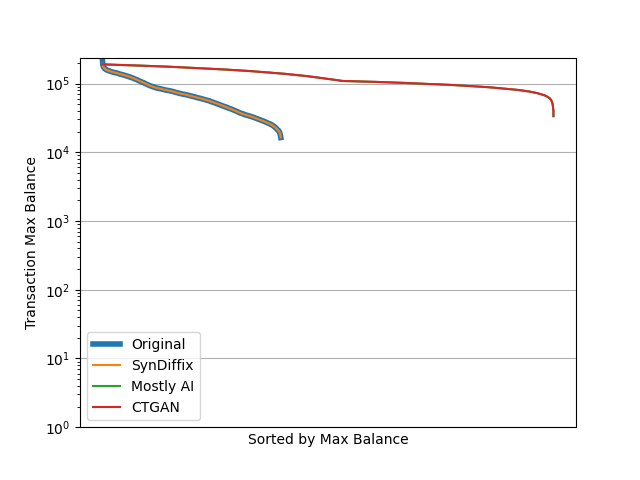
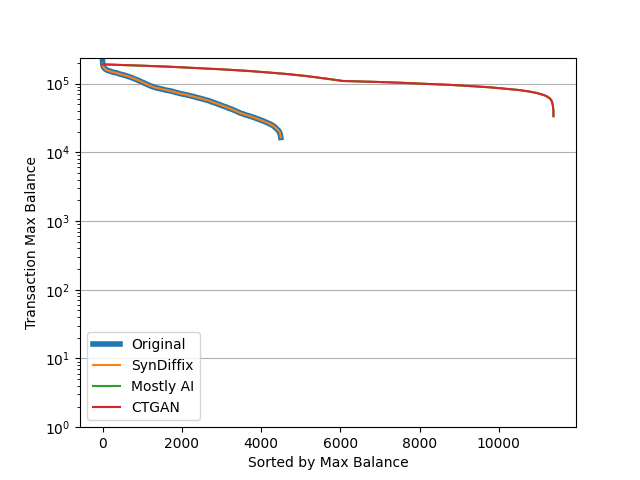
changing order of things in sdvSynth

diff --git a/dataPrep/sdvSynth.py b/dataPrep/sdvSynth.py
@@ -34,12 +34,36 @@ def saveDf(fileName, df, dataDir=dataSetDir):
 
 filesToSynthesize = [
     'account_card_clients',
+    'trans_account_card_clients',
 ]
 seqFilesToSynthesize = [
     'trans_account_card_clients',
     'loan_account_card_clients',
     'order_account_card_clients',
 ]
+
+for fileNameRoot in filesToSynthesize:
+    fileName = os.path.join(dataSetDir, fileNameRoot + '.pbz2')
+    fileNameCsv = os.path.join(dataSetDir, fileNameRoot + '.ctgan.csv')
+    fileNamePbz2 = os.path.join(dataSetDir, fileNameRoot + '.ctgan.pbz2')
+    if os.path.exists(fileNameCsv):
+        print(f"Already did {fileName}")
+        continue
+    df = getDf(fileName)
+    columns = list(df.columns)
+    metadata = SingleTableMetadata()
+    metadata.detect_from_dataframe(df)
+    if 'account' in columns:
+        metadata.update_column(column_name='account', sdtype='id')
+    if 'trans_id' in columns:
+        metadata.update_column(column_name='trans_id', sdtype='id')
+    metadataDict = metadata.to_dict()
+    print(f"\n{fileName}:")
+    pp.pprint(metadataDict)
+    synthesizer = CTGANSynthesizer(metadata)
+    synthesizer.fit(df)
+    df_syn = synthesizer.sample(num_rows=len(df))
+    saveDf(fileNameRoot+'.ctgan', df_syn)
 
 for fileNameRoot in seqFilesToSynthesize:
     fileName = os.path.join(dataSetDir, fileNameRoot + '.pbz2')
@@ -75,26 +99,3 @@ for fileNameRoot in seqFilesToSynthesize:
     df_syn = synthesizer.sample(num_sequences=num_sequences)
     print("After sample")
     saveDf(fileNameRoot+'.ctgan.seq', df_syn)
-
-for fileNameRoot in filesToSynthesize:
-    fileName = os.path.join(dataSetDir, fileNameRoot + '.pbz2')
-    fileNameCsv = os.path.join(dataSetDir, fileNameRoot + '.ctgan.csv')
-    fileNamePbz2 = os.path.join(dataSetDir, fileNameRoot + '.ctgan.pbz2')
-    if os.path.exists(fileNameCsv):
-        print(f"Already did {fileName}")
-        continue
-    df = getDf(fileName)
-    columns = list(df.columns)
-    metadata = SingleTableMetadata()
-    metadata.detect_from_dataframe(df)
-    if 'account' in columns:
-        metadata.update_column(column_name='account', sdtype='id')
-    if 'trans_id' in columns:
-        metadata.update_column(column_name='trans_id', sdtype='id')
-    metadataDict = metadata.to_dict()
-    print(f"\n{fileName}:")
-    pp.pprint(metadataDict)
-    synthesizer = CTGANSynthesizer(metadata)
-    synthesizer.fit(df)
-    df_syn = synthesizer.sample(num_rows=len(df))
-    saveDf(fileNameRoot+'.ctgan', df_syn)

diff --git a/dataPrep/analysis.py b/dataPrep/analysis.py
@@ -108,7 +108,7 @@ def trans_amounts_sorted(df, df_mo, df_ct, fileName):
     ax.set_yscale('log')
     ax.set_ylim([1,None])
     ax.grid(axis='y')
-    ax.tick_params(labelbottom=False, bottom=False)
+    #ax.tick_params(labelbottom=False, bottom=False)
     ax.legend()
     ax.set(xlabel='Sorted by Amount', ylabel='Transaction Amount')
     plt.savefig(synFilePath)
@@ -163,7 +163,7 @@ def trans_max_balance_sorted(df, df_mo, df_ct, fileName):
     ax.set_yscale('log')
     ax.set_ylim([1,None])
     ax.grid(axis='y')
-    ax.tick_params(labelbottom=False, bottom=False)
+    #ax.tick_params(labelbottom=False, bottom=False)
     ax.legend()
     ax.set(xlabel='Sorted by Max Balance', ylabel='Transaction Max Balance')
     plt.savefig(synFilePath)
@@ -174,7 +174,7 @@ df_trans = getDf('trans_account_card_clients')
 df_trans_mo = getDf('trans_account_card_clients.mostly')
 # TODO replace with CTGAN file when I have it
 df_trans_ct = getDf('trans_account_card_clients.mostly')
-if False:
+if True:
     trans_amounts_sorted(df_trans, df_trans_mo, df_trans_ct, 'trans_account_card_clients')
 if True:
     trans_max_balance_sorted(df_trans, df_trans_mo, df_trans_ct, 'trans_account_card_clients')
